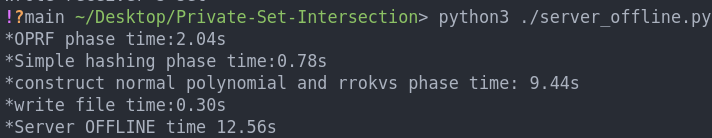
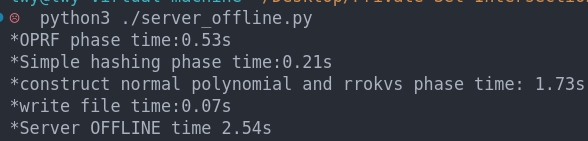
little update

diff --git a/parameters.py b/parameters.py
@@ -2,7 +2,7 @@ from math import log2
 
 # sizes of databases of server and client
 # size of intersection should be less than size of client's database
-server_size = 2**18
+server_size = 2**14
 client_size = 256
 intersection_size = 200
 
@@ -23,21 +23,26 @@ poly_modulus_degree = 2 ** output_bits
 number_of_hashes = 3
 # length of the database items
 sigma_max = int(log2(plain_modulus)) + output_bits - (int(log2(number_of_hashes)) + 1)
-# client_size=256
-# B = [160,550 , 2060] for log(server_size) = [14,16, 18] when label size=5
-# B = [130, 460, 1680] for log(server_size) = [14,16, 18] when label size=4
-# B = [110,350, 1280] for log(server_size) = [14,16, 18] when label size=3
+""" Reference only.
+client_size=256
+B = [160,575 , 2060] for log(server_size) = [14,16, 18] when label size=5
+B = [140, 460, 1680] for log(server_size) = [14,16, 18] when label size=4
+B = [110,350, 1290] for log(server_size) = [14,16, 18] when label size=3
+B = [55,150, 480] for log(server_size) = [14,16, 18] when label size=1
 
-# client_size=512
-# B = [100, 310, 1100] for log(server_size) = [14,16, 18] when label size=5
-# B = [80, 250, 900] for log(server_size) = [14,16, 18] when label size=4
-# B = [65, 190, 700] for log(server_size) = [14,16, 18] when label size=3
+client_size=512
+B = [100, 310, 1100] for log(server_size) = [14,16, 18] when label size=5
+B = [80, 250, 900] for log(server_size) = [14,16, 18] when label size=4
+B = [65, 200, 700,] for log(server_size) = [14,16, 18] when label size=3
+B = [30,80,250] for log(server_size) = [14,16, 18] when label size=1
 
-# client_size=1024
-# B = [60, 240, 650] for log(server_size) = [14,16, 18] when label size=5
-# B = [50, 150, 600] for log(server_size) = [14,16, 18] when label size=4
-# B = [40, 120 400] for log(server_size) = [14,16, 18] when label size=3
-bin_capacity = 1280
+client_size=1024
+B = [60, 240, 650] for log(server_size) = [14,16, 18] when label size=5
+B = [50, 150, 600] for log(server_size) = [14,16, 18] when label size=4
+B = [40, 120 400] for log(server_size) = [14,16, 18] when label size=3
+B = [30, 50 150] for log(server_size) = [14,16, 18] when label size=1
+"""
+bin_capacity = 55
 # partitioning parameter
 alpha = 16
 # windowing parameter
@@ -48,4 +53,23 @@ dummy_msg_server = 2 ** 512
 dummy_msg_client = 2 ** 513-1
 
 item_size=32
-label_size=3
+label_size=1
+
+#You can set this parameter according to your hardware configuration. This Reference setting is determined by my environment.
+if(server_size == 2**18 and label_size==5):
+    cal_pax_process_num=4
+elif(server_size == 2**18 and label_size==4):
+    cal_pax_process_num=5
+elif(server_size == 2**18 and label_size==3):
+    cal_pax_process_num=6
+else:
+    cal_pax_process_num=8
+"""
+In fact, due to the generation of a large number of random numbers, the parameter settings in this document are for reference only.
+Especially, bugs similar to the one below may occur during use:
+(1)Paxos error, Duplicate keys were detected at idx  A, key=1cbf501973860cc7b0777d617f6f6b25...(The probability of this bug is extremely low).
+(2)Simple hashing aborted...(The probability of this bug will be slightly higher).
+Here are the corresponding solutions:
+(1)please run set_gen.py again until no errors are reported.
+(2)Increase the value of parameter 'bin_capacity' until no errors are reported.
+"""

diff --git a/set_gen.py b/set_gen.py
@@ -10,7 +10,10 @@ while len(server_list) < server_size:
         ser_generated_items.add(item_string)
         # 将二进制字符串转换为十进制整数  
         item = int(item_string, 2)
-        label_string = '1'+''.join(choices(['0', '1'], k=label_size-1))   
+        if(label_size==1):
+            label_string = choices(['0', '1'])[0]
+        else:
+            label_string = '1'+''.join(choices(['0', '1'], k=label_size-1))   
         label = int(label_string, 2)    
         server_list.append((item, label))
 print('Done creating server\'s set')
@@ -18,7 +21,10 @@ print('Done creating server\'s set')
 client_set = set()
 while len(client_set) < min(intersection_size, client_size):
     item = choice(server_list)
-    label=item[1]^2 #将标签数据倒数第二位翻转，即错误分类标签
+    if(label_size==1):
+        label=item[1]^1
+    else:
+        label=item[1]^2 #将标签数据倒数第二位翻转，即错误分类标签
     client_set.add((item[0], label))
 
 h = open('intersection.csv', 'w')
@@ -31,7 +37,10 @@ while len(client_set) < client_size:
     if item_string not in ser_generated_items: 
         ser_generated_items.add(item_string)
         item = int(item_string, 2)
-        label_string = '1'+''.join(choices(['0', '1'], k=label_size-1))   
+        if(label_size==1):
+            label_string = choices(['0', '1'])[0]
+        else:
+            label_string = '1'+''.join(choices(['0', '1'], k=label_size-1))    
         label = int(label_string, 2)
         client_set.add((item, label))
 print('Done creating client\'s set')

diff --git a/server_online.py b/server_online.py
@@ -17,6 +17,7 @@ minibin_capacity = int(bin_capacity / alpha)
 logB_ell = int(log2(minibin_capacity) / ell) + 1 # <= 2 ** HE.depth
 # 创建一个新的socket对象，指定IPv4地址族（AF_INET）和TCP传输协议（SOCK_STREAM)
 serv = socket.socket(socket.AF_INET, socket.SOCK_STREAM)
+serv.setsockopt(socket.SOL_SOCKET, socket.SO_REUSEADDR, 1)
 serv.bind(('localhost', 4470)) #绑定socket到特定的地址和端口 
 serv.listen(1)# 开始监听连接请求，参数1表示最大连接数（这里为1，即一次只能处理一个连接）
 
@@ -99,9 +100,7 @@ for i in range(1):
     for j in range(alpha):
         for i in range(table_size):
             link_slice_matrix_ij=link_slice_matrix_array[3*(alpha*i+j):3*(alpha*i+j+1)].tolist()
-            reconstruct_slice=[]
-            for link_vec in link_slice_matrix_ij:
-                reconstruct_slice.append(rrokvs.decode([first_slice[i]],link_vec,minibin_capacity)[0])
+            reconstruct_slice=[rrokvs.decode([first_slice[i]],link_vec,minibin_capacity)[0] for link_vec in link_slice_matrix_ij]
             reconstruct_slices[i][j]=reconstruct_slice
            
     data_to_client=(srv_answer,reconstruct_slices)

diff --git a/server_offline.py b/server_offline.py
@@ -1,4 +1,4 @@
-from parameters import number_of_hashes, bin_capacity, alpha,VBF_hash_seeds,cuckoo_hash_seeds,output_bits,dummy_msg_server
+from parameters import number_of_hashes, bin_capacity, alpha,VBF_hash_seeds,cuckoo_hash_seeds,output_bits,dummy_msg_server,cal_pax_process_num
 from simple_hash import Simple_hash
 from auxiliary_functions import cal_polycoeef_pax
 from oprf import server_prf_offline_parallel, order_of_generator, G
@@ -58,13 +58,12 @@ t2 = time()
 print("*Simple hashing phase time:{:.2f}s".format(t2 - t1))
 poly_coeffs = []
 link_slice_matrix=[]
-number_of_processes = 3
 arr = np.arange(table_size)  
-bin_array = np.array_split(arr, number_of_processes)
+bin_array = np.array_split(arr, cal_pax_process_num)
 bin_lists = [list(bin) for bin in bin_array]
 outputs=[]
 partial_func = partial(cal_polycoeef_pax, SH=SH)  
-with Pool(number_of_processes) as p:
+with Pool(cal_pax_process_num) as p:
     outputs = p.map(partial_func, bin_lists)
 for output in outputs:
     poly_coeffs+=output[0]

diff --git a/oprf.py b/oprf.py
@@ -6,7 +6,7 @@ from parameters import sigma_max
 
 mask = 2 ** sigma_max - 1
 
-number_of_processes = 6
+number_of_processes = 8
 
 # Curve parameters
 curve_used = P192
